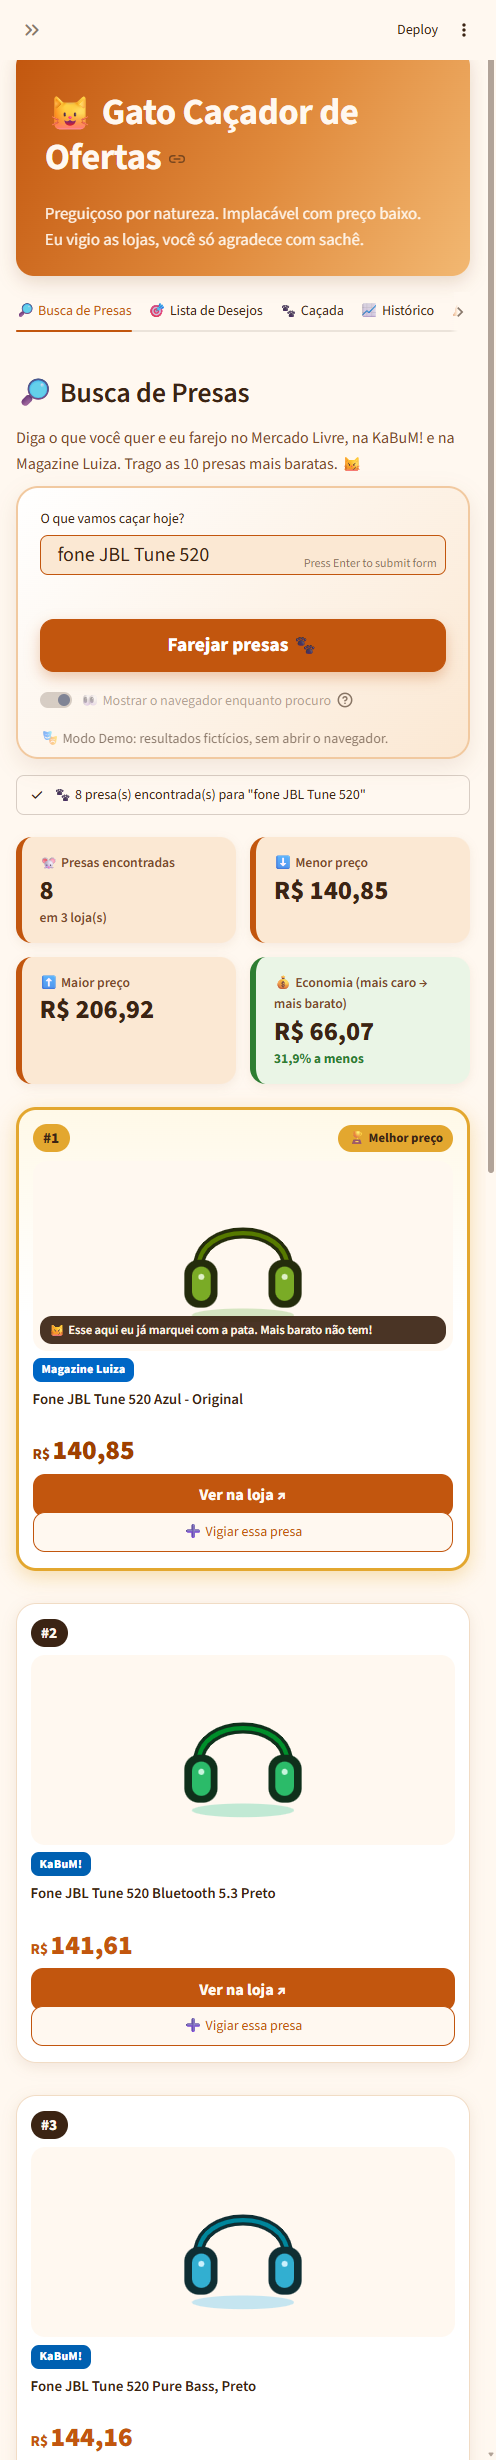
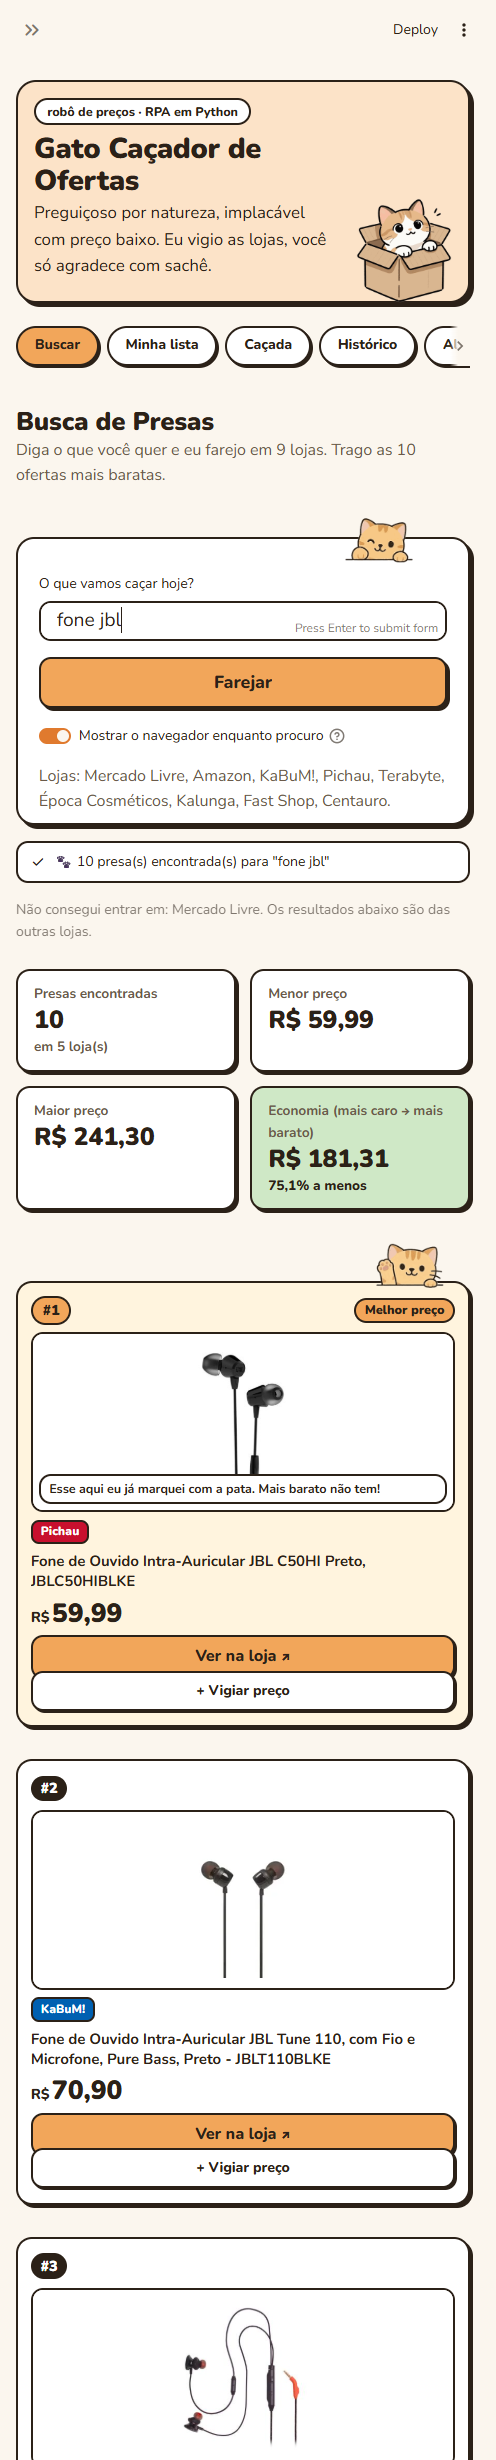
Atualiza as fotos do README

diff --git a/README.md b/README.md
@@ -5,7 +5,7 @@
 Uma automação **RPA em Python** que vigia preços de produtos em lojas online e mia no seu Telegram quando o preço cai.
 Você monta a lista de desejos, define quanto quer pagar, e o gato faz o resto: abre o navegador, visita cada loja, captura o preço, guarda o histórico e dá o bote quando a presa (o preço baixo) aparece.
 
-![Busca de Presas: as 10 ofertas mais baratas de "fone JBL", com a melhor em destaque](docs/busca_real.png)
+![Busca de Presas: as 10 ofertas mais baratas de "fone jbl" em 5 lojas, com a melhor em destaque](docs/busca_real.png)
 
 ---
 
@@ -230,6 +230,12 @@ Na barra lateral, a etiqueta **"conectado: os alertas chegam no celular"** confi
 | **Caçada** | botão **"Soltar o gato!"**, opção de mostrar ou esconder o navegador (headless), log ao vivo e cartões com o resumo (visitados, presas, erros, alertas) |
 | **Histórico** | gráfico Plotly da variação de preço com a **linha da meta destacada** e patinhas 🐾 onde a meta foi batida; tabela com filtro por produto e download do Excel |
 | **Alertas** | token e chat_id lidos do `.env`, botões **Achar chat_id**, **Salvar** e **Miau de teste**, e a lista dos alertas já disparados |
+
+| Minha lista (com o interruptor 🔔 em cada produto) | Caçada (Modo Demo) |
+|---|---|
+| ![Aba Minha lista com três produtos, preço atual, meta e o interruptor de alerta](docs/lista.png) | ![Aba Caçada com o log ao vivo do gato e o resumo da caçada](docs/cacada.png) |
+| **Histórico** (linha tracejada = meta, 🐾 = meta batida) | **Alertas** (configuração do Telegram) |
+| ![Aba Histórico com o gráfico de preço do Headset Razer e a linha da meta](docs/historico.png) | ![Aba Alertas com token, chat_id, botões e alertas já disparados](docs/alertas.png) |
 
 **Visual:** estilo "papel e nanquim", com fundo creme, contorno escuro e sombras carimbadas, para combinar com o traço dos gatinhos que espiam por cima das caixas. As cores e o CSS ficam em [`ui/estilo.py`](ui/estilo.py) e [`.streamlit/config.toml`](.streamlit/config.toml).
 
